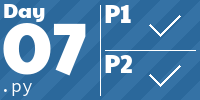
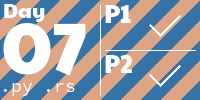
Day 07+

diff --git a/solutions/day07/day07.rs b/solutions/day07/day07.rs
@@ -1,0 +1,112 @@
+use std::{
+    collections::HashMap,
+    io::{self, Read},
+};
+
+fn hand_power(hand: &str, joker: bool) -> &'static str {
+    let counts = hand.chars().fold(HashMap::new(), |mut acc, c| {
+        *acc.entry(c).or_insert(0) += 1;
+        acc
+    });
+
+    let j = hand.matches("J").count();
+    let mut bestcard = ' ';
+
+    if joker && 0 < j && j < 5 {
+        bestcard = counts
+            .iter()
+            .filter(|&(key, _)| *key != 'J')
+            .max_by_key(|(_, &count)| count)
+            .map(|(key, _)| *key)
+            .unwrap();
+    }
+
+    let cnt: Vec<_> = counts
+        .iter()
+        .filter_map(|(key, &count)| {
+            if joker && *key == 'J' && j < 5 {
+                None
+            } else if joker && *key == bestcard {
+                Some(count + j)
+            } else {
+                Some(count)
+            }
+        })
+        .collect();
+
+    match *cnt.iter().max().unwrap() {
+        5 => "6", // Five of a kind
+        4 => "5", // Four of a kind
+        3 => {
+            if cnt.contains(&2) {
+                "4" // Full House
+            } else {
+                "3" // Three of a kind
+            }
+        }
+        _ => {
+            let pairs = cnt.iter().filter(|&n| *n == 2).count();
+            match pairs {
+                2 => "2", // Two Pair
+                1 => "1", // One Pair
+                _ => "",  // High card
+            }
+        }
+    }
+}
+
+fn hand_eval(hand: &str, cardmap: &HashMap<&str, &str>) -> u64 {
+    let hand_power_str = hand_power(hand, *cardmap.get("J").unwrap() == "01").to_string();
+    let card_values_str: String = hand
+        .chars()
+        .map(|c| cardmap.get(&c.to_string().as_str()).unwrap().to_string())
+        .collect();
+
+    (hand_power_str + &card_values_str).parse().unwrap()
+}
+
+fn part1(inp: &mut Vec<(String, u64)>, cardmap: &HashMap<&str, &str>) -> u64 {
+    inp.sort_by_cached_key(|(hand, _)| hand_eval(hand, cardmap));
+    inp.iter()
+        .enumerate()
+        .map(|(i, v)| (i as u64 + 1) * v.1)
+        .sum()
+}
+
+fn part2(inp: &mut Vec<(String, u64)>, cardmap: &mut HashMap<&str, &str>) -> u64 {
+    cardmap.insert("J", "01");
+    part1(inp, cardmap)
+}
+
+fn main() {
+    let mut inp = String::new();
+    _ = io::stdin().read_to_string(&mut inp);
+
+    let mut inp: Vec<(String, u64)> = inp
+        .lines()
+        .map(|line| line.split_whitespace().collect::<Vec<_>>())
+        .map(|v| (v[0].to_string(), v[1].parse().unwrap()))
+        .collect();
+
+    let mut cardmap = HashMap::from([
+        ("A", "14"),
+        ("K", "13"),
+        ("Q", "12"),
+        ("J", "11"),
+        ("T", "10"),
+        ("9", "09"),
+        ("8", "08"),
+        ("7", "07"),
+        ("6", "06"),
+        ("5", "05"),
+        ("4", "04"),
+        ("3", "03"),
+        ("2", "02"),
+    ]);
+
+    println!(
+        "{} {}",
+        part1(&mut inp, &cardmap),
+        part2(&mut inp, &mut cardmap)
+    );
+}

diff --git a/solutions/day07/day07.py b/solutions/day07/day07.py
@@ -19,40 +19,36 @@ cardmap = {
 }
 
 
-def hand_power(card: str) -> str:
-    if cardmap["J"] != "11" and 0 < card.count("J") < 5:
+def hand_power(hand: str) -> str:
+    if cardmap["J"] != "11" and 0 < hand.count("J") < 5:
         # Replace Joker card with optimal card
-        card = card.replace("J", Counter(card.replace("J", "")).most_common(1).pop()[0])
+        hand = hand.replace("J", Counter(hand.replace("J", "")).most_common(1).pop()[0])
 
-    cnt = list(Counter(card).values())
+    cnt = list(Counter(hand).values())
 
-    if max(cnt) == 5:  # Five of a kind
-        return "6"
-
-    if max(cnt) == 4:  # Four of a kind
-        return "5"
-
-    if set(cnt) == {3, 2}:  # Full House
-        return "4"
-
-    if max(cnt) == 3:  # Three of a Kind
-        return "3"
-
-    if cnt.count(2) == 2:  # Two Pair
-        return "2"
-
-    if cnt.count(2) == 1:  # One Pair
-        return "1"
-
-    return ""  # High card
+    match max(cnt):
+        case 5:
+            return "6"  # Five of a kind
+        case 4:
+            return "5"  # Four of a kind
+        case 3:
+            return "4" if cnt.count(2) == 1 else "3"  # Full House or Three of a kind
+        case _:
+            match cnt.count(2):
+                case 2:
+                    return "2"  # Two Pair
+                case 1:
+                    return "1"  # One Pair
+                case _:
+                    return ""  # High card
 
 
-def hand(card: str) -> int:
-    return int(hand_power(card) + "".join(map(cardmap.get, card)))
+def hand_eval(hand: str) -> int:
+    return int(hand_power(hand) + "".join(map(cardmap.get, hand)))
 
 
 def part1():
-    return sum(i * v[1] for i, v in enumerate(sorted(inp, key=lambda x: hand(x[0])), 1))
+    return sum(i * v[1] for i, v in enumerate(sorted(inp, key=lambda x: hand_eval(x[0])), 1))
 
 
 def part2():
